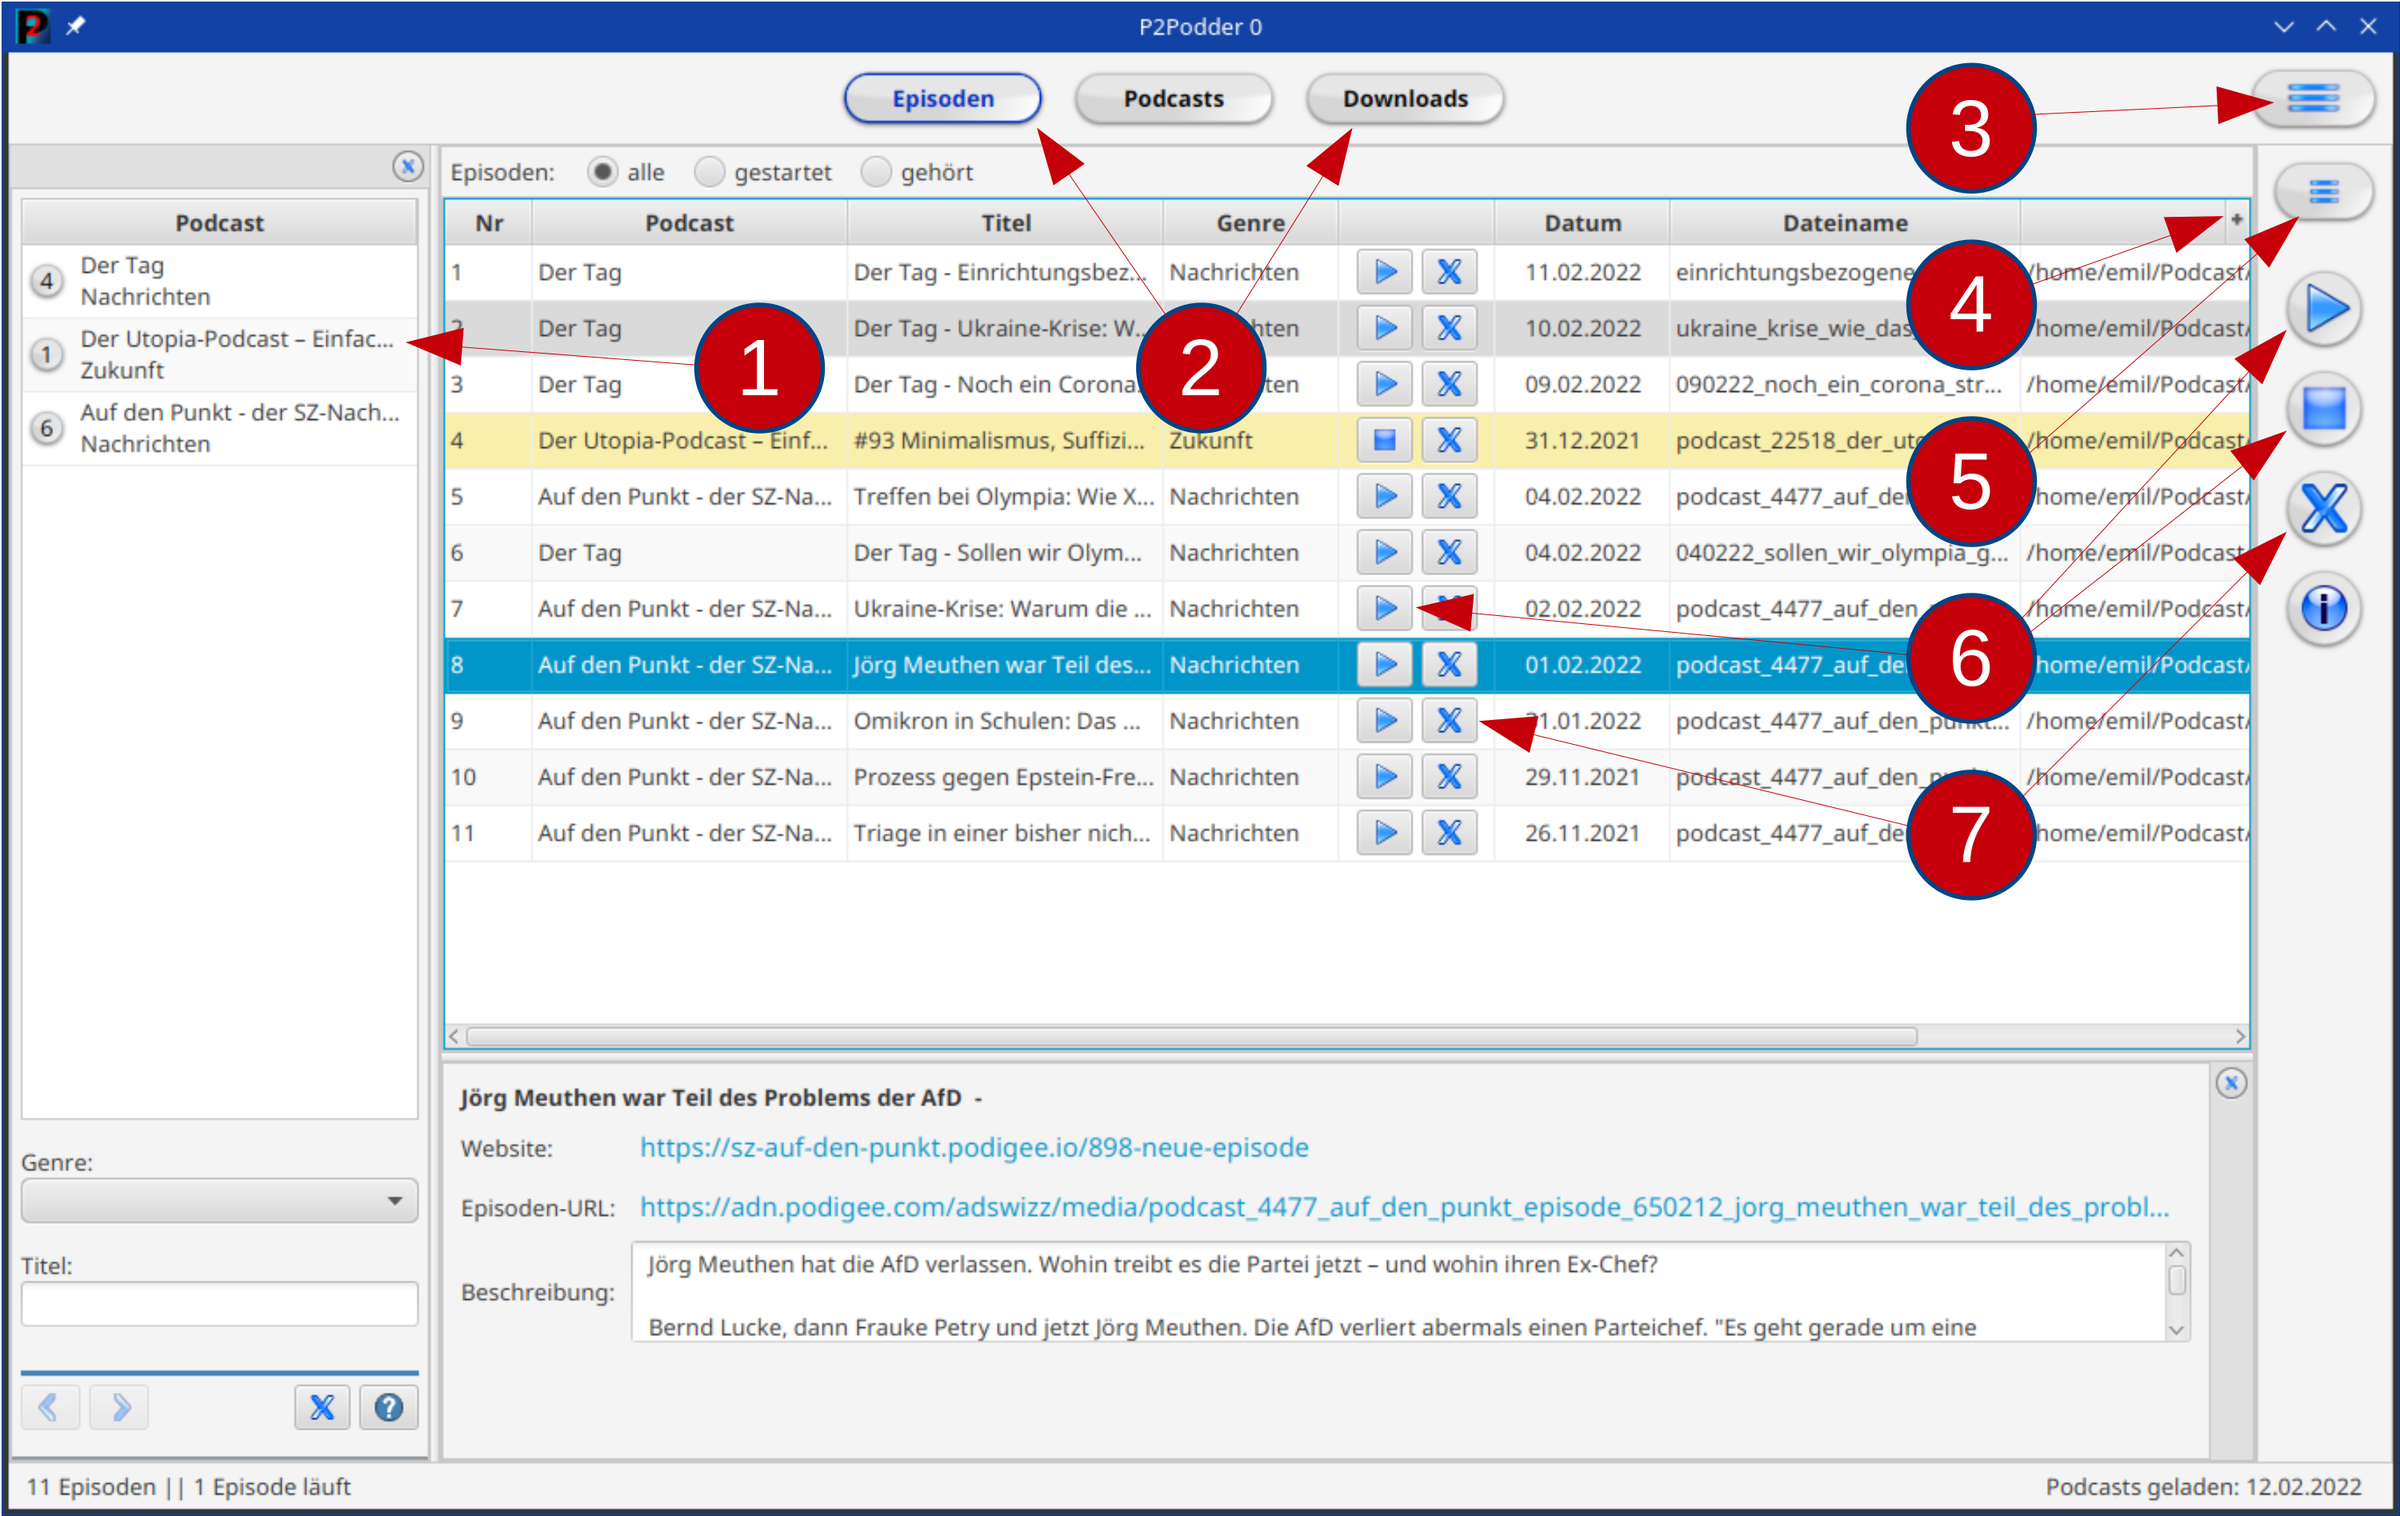
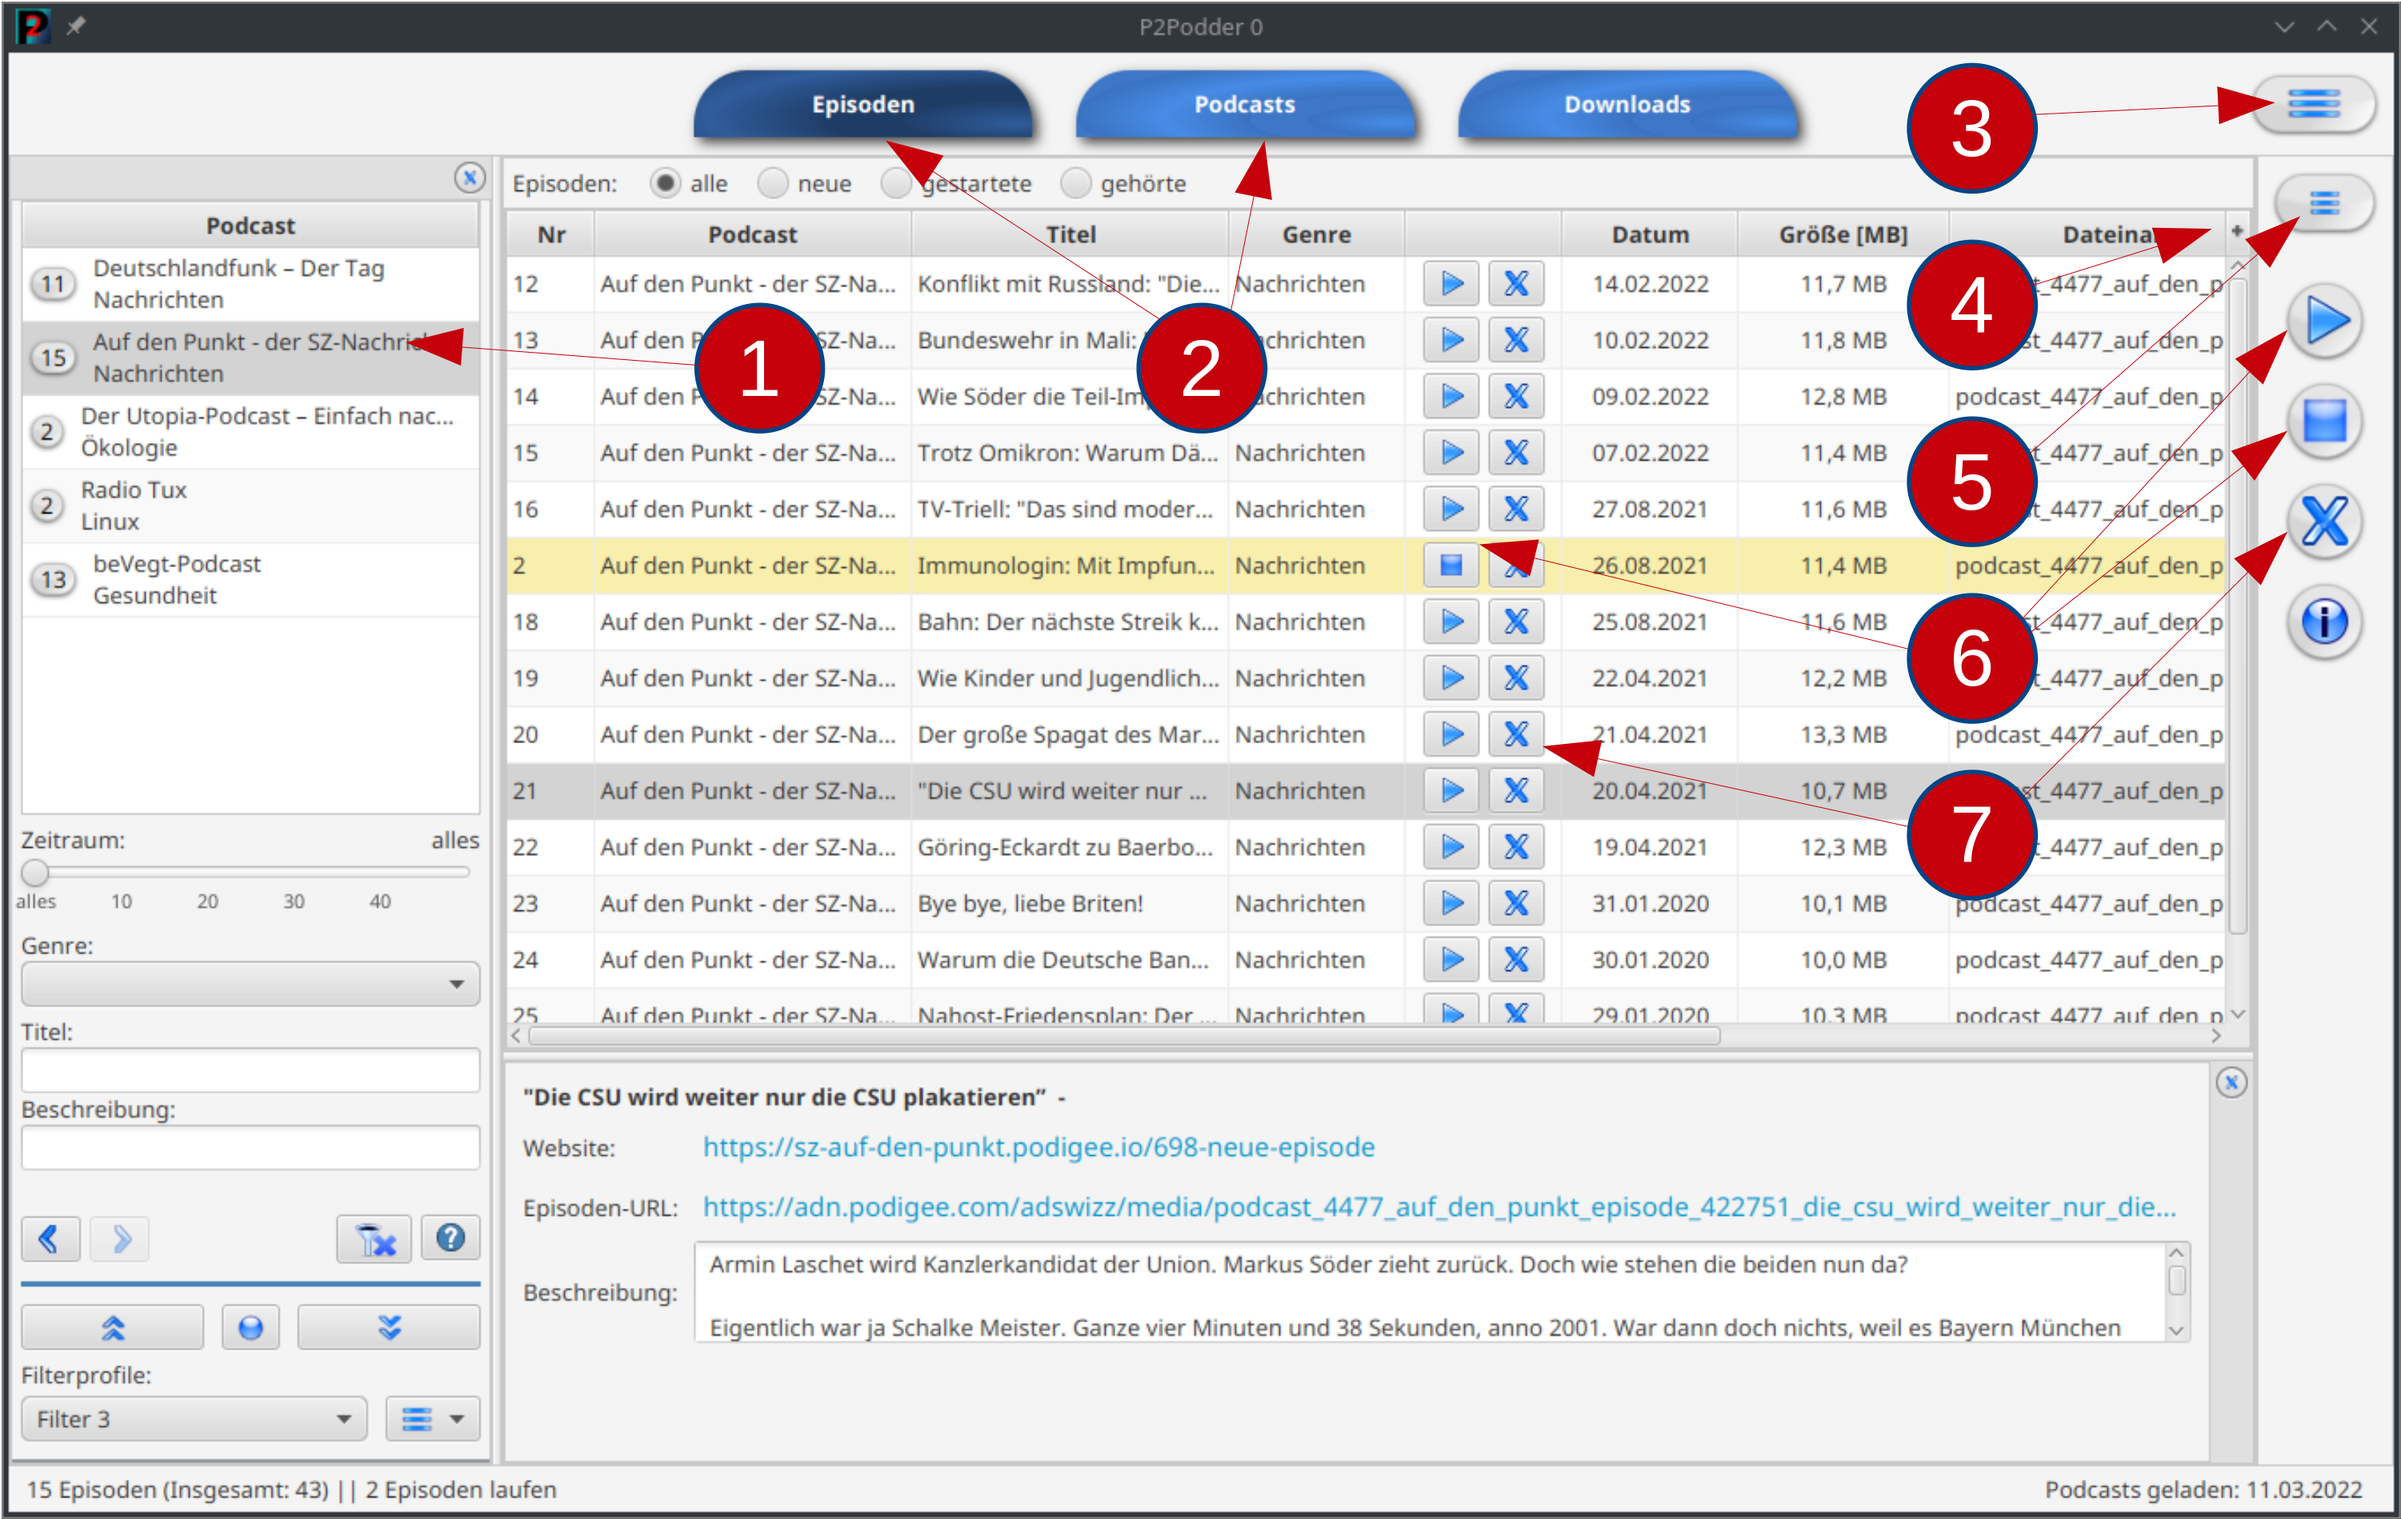
filter, startpage
Took 3 hours 37 minutes

diff --git a/src/main/java/de/p2tools/p2podder/gui/EpisodeFilterController.java b/src/main/java/de/p2tools/p2podder/gui/EpisodeFilterController.java
@@ -154,14 +154,14 @@ public class EpisodeFilterController extends FilterController {
 
     public void initFilter() {
         tableView.getSelectionModel().selectedItemProperty().addListener((observable, oldValue, newValue) -> {
-            if (newValue != null) {
-                long l = tableView.getSelectionModel().getSelectedItem().getId();
-                progData.storedFilters.getActFilterSettings().setPodcastId(l);
+            //ist für das Klicken in der Tabelle
+            if (newValue != null && oldValue != newValue) {
+                progData.storedFilters.getActFilterSettings().setPodcastId(newValue.getId());
             }
         });
         progData.storedFilters.getActFilterSettings().podcastIdProperty().addListener((u, o, n) -> {
-            long id = n.longValue();
-            Podcast podcast = progData.podcastList.getPodcastById(id);
+            //ist für den Wechsel gespeicherter Filter
+            Podcast podcast = progData.podcastList.getPodcastById(n.longValue());
             if (podcast != null) {
                 tableView.getSelectionModel().select(podcast);
             } else {
@@ -169,17 +169,27 @@ public class EpisodeFilterController extends FilterController {
             }
         });
         progData.episodeStoredList.addListener((v, o, n) -> {
-            tableView.getItems().clear();
-            tableView.getItems().addAll(progData.episodeStoredList.getPodcastList());
+            //ist für das Hinzufügen/Löschen von Episoden
+            Platform.runLater(() -> {
+                Podcast sel = tableView.getSelectionModel().getSelectedItem();
+                tableView.getItems().setAll(progData.episodeStoredList.getPodcastList());
+                if (tableView.getItems().contains(sel)) {
+                    tableView.getSelectionModel().select(sel);
+                } else {
+                    progData.storedFilters.getActFilterSettings().setPodcastId(0);
+                }
+            });
         });
         tableView.getItems().addAll(progData.episodeStoredList.getPodcastList());
 
         cboGenre.valueProperty().bindBidirectional(progData.storedFilters.getActFilterSettings().genreProperty());
         progData.episodeStoredList.getGenreList().addListener((ListChangeListener<String>) change -> {
             Platform.runLater(() -> {
+                //kann durch Downloads außer der Reihe sein!!
                 String sel = cboGenre.getSelectionModel().getSelectedItem();
                 cboGenre.getItems().setAll(progData.episodeStoredList.getGenreList());
-                if (cboGenre.getItems().contains(sel)) {
+                if (sel.isEmpty()) {
+                } else if (cboGenre.getItems().contains(sel)) {
                     cboGenre.getSelectionModel().select(sel);
                 } else {
                     progData.storedFilters.clearFilter();

diff --git a/src/main/java/de/p2tools/p2podder/gui/DownloadFilterController.java b/src/main/java/de/p2tools/p2podder/gui/DownloadFilterController.java
@@ -73,7 +73,7 @@ public class DownloadFilterController extends FilterController {
 
     private void addButton() {
         btnClearFilter.setGraphic(new ProgIcons().ICON_BUTTON_CLEAR_FILTER);
-        btnClearFilter.setOnAction(a -> clearFilter());
+        btnClearFilter.setOnAction(a -> clearFilter(true));
         btnClearFilter.setTooltip(new Tooltip("Alle Filter löschen"));
 
         HBox hBoxAll = new HBox(5);
@@ -113,8 +113,15 @@ public class DownloadFilterController extends FilterController {
             }
         });
         progData.downloadList.addListener((v, o, n) -> {
-            tableView.getItems().clear();
-            tableView.getItems().addAll(DownloadFactory.getPodcastList());
+            Platform.runLater(() -> {
+                Podcast sel = tableView.getSelectionModel().getSelectedItem();
+                tableView.getItems().setAll(DownloadFactory.getPodcastList());
+                if (tableView.getItems().contains(sel)) {
+                    tableView.getSelectionModel().select(sel);
+                } else {
+                    clearFilter(false);
+                }
+            });
         });
         tableView.getItems().addAll(DownloadFactory.getPodcastList());
 
@@ -123,10 +130,11 @@ public class DownloadFilterController extends FilterController {
             Platform.runLater(() -> {
                 String sel = cboGenre.getSelectionModel().getSelectedItem();
                 cboGenre.getItems().setAll(progData.downloadList.getGenreList());
-                if (cboGenre.getItems().contains(sel)) {
+                if (sel.isEmpty()) {
+                } else if (cboGenre.getItems().contains(sel)) {
                     cboGenre.getSelectionModel().select(sel);
                 } else {
-                    clearFilter();//clearSelection in der Tabelle bräuchte es da nicht, aber..
+                    clearFilter(false);//clearSelection in der Tabelle bräuchte es da nicht, aber..
                 }
             });
         });
@@ -185,9 +193,11 @@ public class DownloadFilterController extends FilterController {
         return cell;
     };
 
-    public void clearFilter() {
+    public void clearFilter(boolean clearTable) {
         PDuration.onlyPing("Filter löschen");
         progData.filterDownload.clearFilter();
-        tableView.getSelectionModel().clearSelection();
+        if (clearTable) {
+            tableView.getSelectionModel().clearSelection();
+        }
     }
 }

diff --git a/src/main/java/de/p2tools/p2podder/controller/storedFilter/SelectedFilter.java b/src/main/java/de/p2tools/p2podder/controller/storedFilter/SelectedFilter.java
@@ -21,6 +21,7 @@ import de.p2tools.p2podder.controller.config.ProgConst;
 import de.p2tools.p2podder.controller.config.ProgData;
 import de.p2tools.p2podder.controller.data.episode.Episode;
 import de.p2tools.p2podder.controller.data.episode.EpisodeFactory;
+import javafx.application.Platform;
 import javafx.beans.property.BooleanProperty;
 import javafx.beans.property.SimpleBooleanProperty;
 
@@ -60,8 +61,10 @@ public class SelectedFilter extends SelectedFilterProps {
 
     private void reportFilterChange() {
         if (reportChange) {
-            PDebugLog.sysLog("reportFilterChange");
-            filterChange.setValue(!filterChange.getValue());
+            Platform.runLater(() -> {
+                PDebugLog.sysLog("reportFilterChange");
+                filterChange.setValue(!filterChange.getValue());
+            });
         }
     }
 
@@ -72,10 +75,6 @@ public class SelectedFilter extends SelectedFilterProps {
         setTitle("");
         setDescription("");
         setTimeRange(ProgConst.FILTER_TIME_RANGE_ALL_VALUE);
-//        setIsAll(true);
-//        setIsNew(false);
-//        setIsRunning(false);
-//        setWasShown(false);
     }
 
     public Predicate<Episode> getPredicateEpisode() {
@@ -111,28 +110,4 @@ public class SelectedFilter extends SelectedFilterProps {
         }
         return predicate;
     }
-
-//    public void setAll() {
-//        setIsNew(false);
-//        setIsRunning(false);
-//        setWasShown(false);
-//    }
-//
-//    public void setNew() {
-//        setIsNew(true);
-//        setIsRunning(false);
-//        setWasShown(false);
-//    }
-//
-//    public void setRunning() {
-//        setIsNew(false);
-//        setIsRunning(true);
-//        setWasShown(false);
-//    }
-//
-//    public void setWasShown() {
-//        setIsNew(false);
-//        setIsRunning(false);
-//        setWasShown(true);
-//    }
 }

diff --git a/src/main/java/de/p2tools/p2podder/controller/data/episode/EpisodeList.java b/src/main/java/de/p2tools/p2podder/controller/data/episode/EpisodeList.java
@@ -18,6 +18,7 @@ package de.p2tools.p2podder.controller.data.episode;
 
 import de.p2tools.p2Lib.configFile.pData.PDataList;
 import de.p2tools.p2Lib.tools.duration.PDuration;
+import de.p2tools.p2Lib.tools.log.PLog;
 import de.p2tools.p2podder.controller.config.ProgData;
 import de.p2tools.p2podder.controller.data.podcast.Podcast;
 import javafx.beans.property.BooleanProperty;
@@ -204,6 +205,7 @@ public class EpisodeList extends SimpleListProperty<Episode> implements PDataLis
 
     public synchronized void genGenreList() {
         PDuration.counterStart("genGenreList");
+        PLog.sysLog("Episoden: genGenreList");
         final LinkedHashSet<String> hashSet = new LinkedHashSet<>(10);
         ArrayList<String> arrayList = new ArrayList<>();
         stream().forEach((episode) -> {

diff --git a/src/main/java/de/p2tools/p2podder/controller/storedFilter/InitStoredFilter.java b/src/main/java/de/p2tools/p2podder/controller/storedFilter/InitStoredFilter.java
@@ -25,12 +25,14 @@ public class InitStoredFilter {
 
         //========================================================
         SelectedFilter sf = new SelectedFilter("Nachrichten");
-        sf.setTitle("Nachrichten");
+        sf.setGenre("Nachrichten");
+        sf.setTimeRange(20);
         progData.storedFilters.getStoredFilterList().add(sf);
 
         //========================================================
         sf = new SelectedFilter("Linux");
-        sf.setTitle("Linux");
+        sf.setGenre("Linux");
+        sf.setTimeRange(20);
         progData.storedFilters.getStoredFilterList().add(sf);
     }
 }

diff --git a/src/main/java/de/p2tools/p2podder/controller/data/podcast/PodcastList.java b/src/main/java/de/p2tools/p2podder/controller/data/podcast/PodcastList.java
@@ -209,7 +209,7 @@ public class PodcastList extends SimpleListProperty<Podcast> implements PDataLis
 
     public synchronized Podcast getPodcastById(final Long id) {
         final Optional<Podcast> opt =
-                parallelStream().filter(station -> station.getId() == id).findAny();
+                stream().filter(station -> station.getId() == id).findAny();
         return opt.orElse(null);
     }
 
